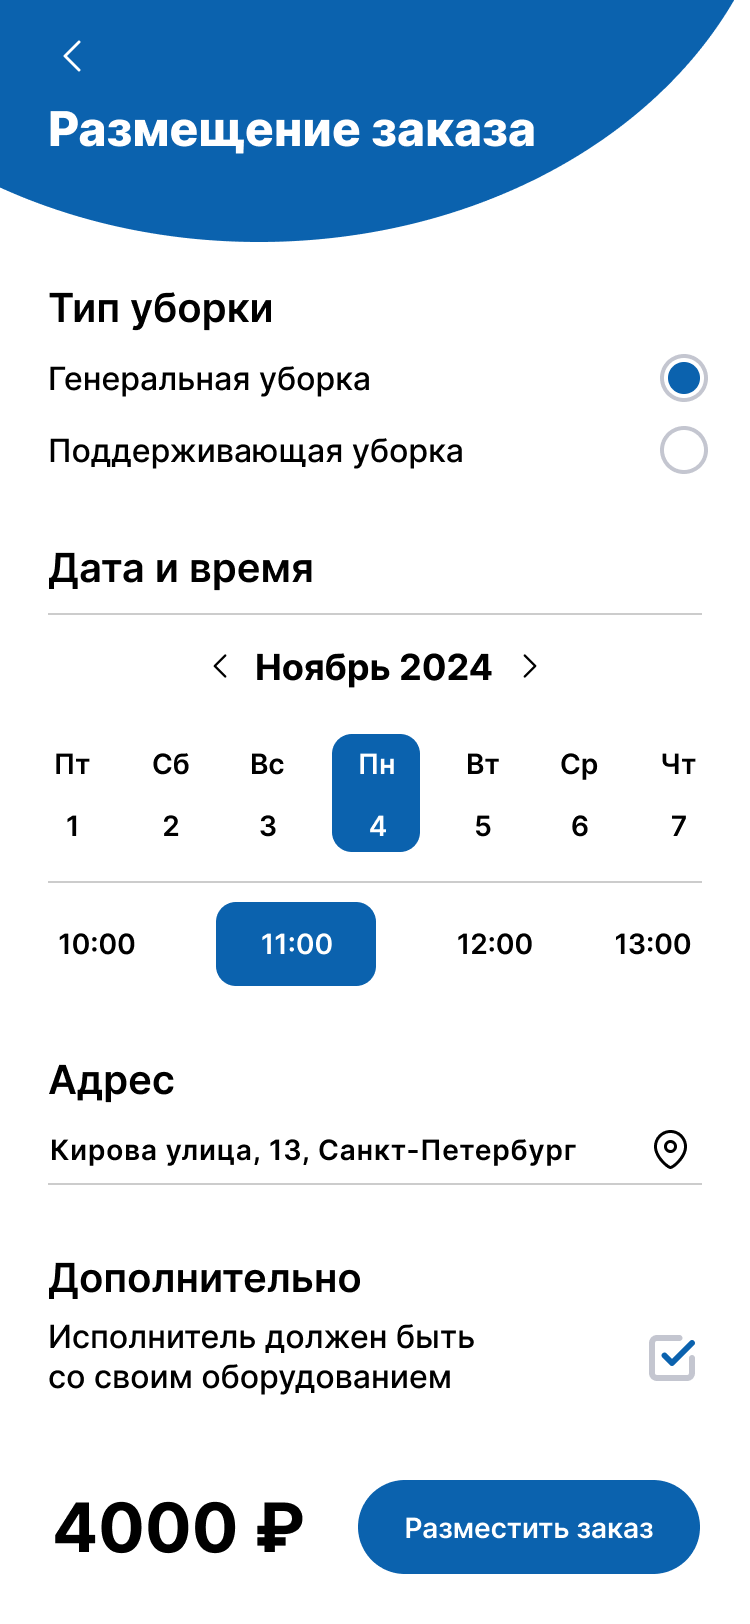
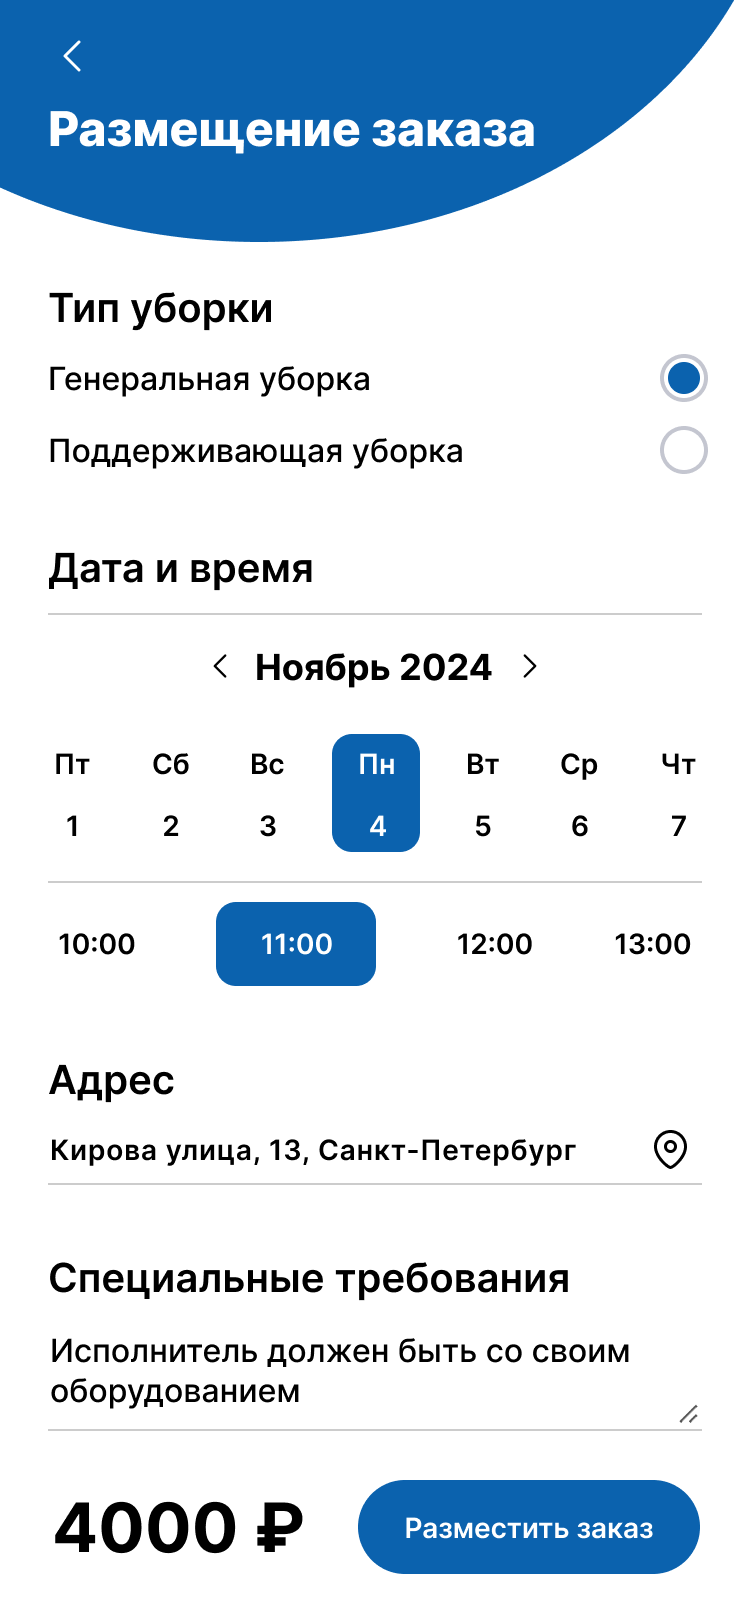
M3l11 broke User Story 1 on Epic 1

Changed region(s): [[0.0613, 0.7697, 0.7667, 0.8621], [0.8587, 0.8005, 0.9507, 0.8621], [0.736, 0.8313, 0.828, 0.8621]]

diff --git a/docs/01-business/03-user-story.md b/docs/01-business/03-user-story.md
@@ -1,39 +1,73 @@
 # Пользовательские истории
 
-## User Story 1: Публикация заказа уборки
+## Эпик 1: Публикация заказа уборки
 
-**Как** заказчик,<br/>
-**Я хочу** иметь возможность создать и опубликовать заказ на уборку,<br/>
-**Чтобы** исполнители могли увидеть мой запрос и откликнуться на него.
+### User Story 1.1: Выбор типа уборки
+**Как** заказчик, **я хочу** выбрать тип уборки, **чтобы** указать нужный вид услуги.
 
-### Критерии приемки:
+#### Критерии приемки:
+- Заказчик может выбрать один из предложенных типов уборки: генеральная или поддерживающая.
 
-- Заказчик может выбрать тип уборки (генеральная, поддерживающая).
-- Заказчик может указать дату и время, когда требуется уборка.
-- Заказчик может указать адрес, где требуется уборка.
-- Заказчик может добавить специальные требования к уборке (например, что исполнитель должен быть со своим оборудованием).
-- Если заказчик вышел из заказа, не опубликовав его, то заказ сохраняется как черновик, и заказчик всегда может вернуться к заказу для его редактирования и публикации.
-- После публикации заказа, он становится видимым для исполнителей.
+---
+
+### User Story 1.2: Указание даты и времени уборки
+**Как** заказчик, **я хочу** указать дату и время уборки, **чтобы** исполнитель знал, когда выполнять работу.
+
+#### Критерии приемки:
+- Заказчик может выбрать дату из календаря.
+- Заказчик может выбрать время, которое его устраивает.
+- Заказчик не может выбрать прошедшую дату или время.
+
+---
+
+### User Story 1.3: Указание адреса уборки
+**Как** заказчик, **я хочу** указать адрес уборки, **чтобы** исполнитель знал, где выполнять работу.
+
+#### Критерии приемки:
+- Заказчик вводит полный адрес (с проверкой на корректность ввода).
+- Возможность выбора адреса из списка ранее добавленных.
+
+---
+
+### User Story 1.4: Добавление специальных требований
+**Как** заказчик, **я хочу** добавить специальные требования к уборке, **чтобы** исполнитель знал мои предпочтения.
+
+#### Критерии приемки:
+- Заказчик может написать текст с требованиями.
+
+---
+
+### User Story 1.5: Сохранение черновика заказа
+**Как** заказчик, **я хочу** сохранить черновик заказа, **чтобы** вернуться к нему позже для редактирования и публикации.
+
+#### Критерии приемки:
+- Если заказ не опубликован, он сохраняется как черновик.
+- Заказчик может в любой момент вернуться к черновику и продолжить его редактирование.
+
+---
+
+### User Story 1.6: Публикация заказа
+**Как** заказчик, **я хочу** опубликовать заказ, **чтобы** исполнители могли его увидеть и откликнуться на него.
+
+#### Критерии приемки:
+- После публикации, заказ становится видимым для исполнителей.
+- Заказчик получает подтверждение, что заказ опубликован.
+
+---
 
 ## User Story 2: Отклик на заказ уборки
+**Как** исполнитель, **я хочу** иметь возможность просматривать доступные заказы на уборку и откликаться на них, **чтобы** я мог получать новые заказы и увеличивать свой доход.
 
-**Как** исполнитель,<br/>
-**Я хочу** иметь возможность просматривать доступные заказы на уборку и откликаться на них,<br/>
-**Чтобы** я мог получать новые заказы и увеличивать свой доход.
-
-### Критерии приемки:
-
+#### Критерии приемки:
 - Исполнитель может видеть список доступных заказов с фильтрацией по типу уборки, дате и местоположению.
 - Исполнитель может просмотреть детали заказа, включая описание, требования и сумму, которую он получит за выполнение заказа.
 - Исполнитель может откликнуться на заказ и начать работу.
 
+---
+
 ## User Story 3: Получение уведомлений о новых заказах
+**Как** исполнитель, **я хочу** получать уведомления о новых заказах, **чтобы** я мог быстро откликаться на интересующие меня заказы.
 
-**Как** исполнитель,<br/>
-**Я хочу** получать уведомления о новых заказах,<br/>
-**Чтобы** я мог быстро откликаться на интересующие меня заказы.
-
-### Критерии приемки:
-
+#### Критерии приемки:
 - Исполнитель получает уведомления по электронной почте или через приложение о новых заказах, соответствующих его критериям.
 - Исполнитель может настроить предпочтения для получения уведомлений (например, по типу уборки или местоположению).

diff --git a/docs/02-analysis/01-functional-requirements.md b/docs/02-analysis/01-functional-requirements.md
@@ -1,7 +1,7 @@
 # Функциональные требования
 
 ## Публикация заказа уборки
-`User Story 1`
+`Эпик 1. User Story 1.1–1.6`
 
 ### Создание заказа уборки:
 * Возможность выбора типа уборки (генеральная, поддерживающая).
